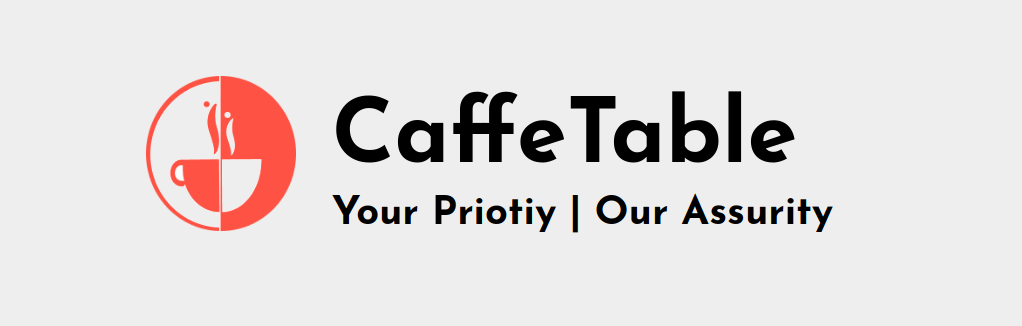
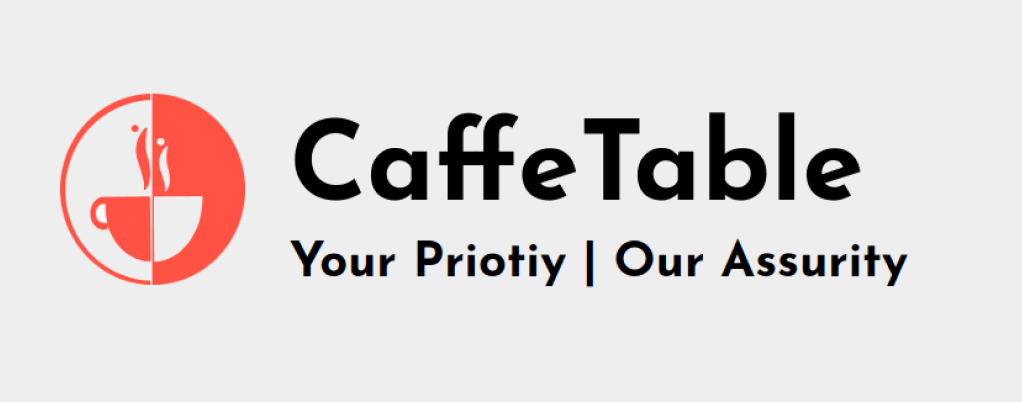
caffetable sponsor

Changed region(s): [[0.0607, 0.2147, 0.91, 0.7362]]

diff --git a/index.html b/index.html
@@ -1135,7 +1135,13 @@
                 </div>
                 <div class="col-md-12 p-3 d-flex flex-row flex-wrap justify-content-center ">
 
-                    <a href="https://www.taskade.com/ " target="_blank " class="col-md-3 ">
+                    <a href="https://caffetable.com/" target="_blank " class="col-md-3">
+                        <div class="col-md-12 justify-content-around d-flex align-items-center sponsor-card ">
+                            <img class="assimg" src="./assets/sponsors/caffetable.png " alt="Caffetable"
+                                style="width: 100%; ">
+                        </div>
+                    </a>
+                    <a href="https://www.taskade.com/ " target="_blank " class="col-md-3">
                         <div class="col-md-12 justify-content-around d-flex align-items-center sponsor-card ">
                             <img class="assimg" src="./assets/sponsors/taskade.jpg " alt="taskade "
                                 style="width: 100%; ">
